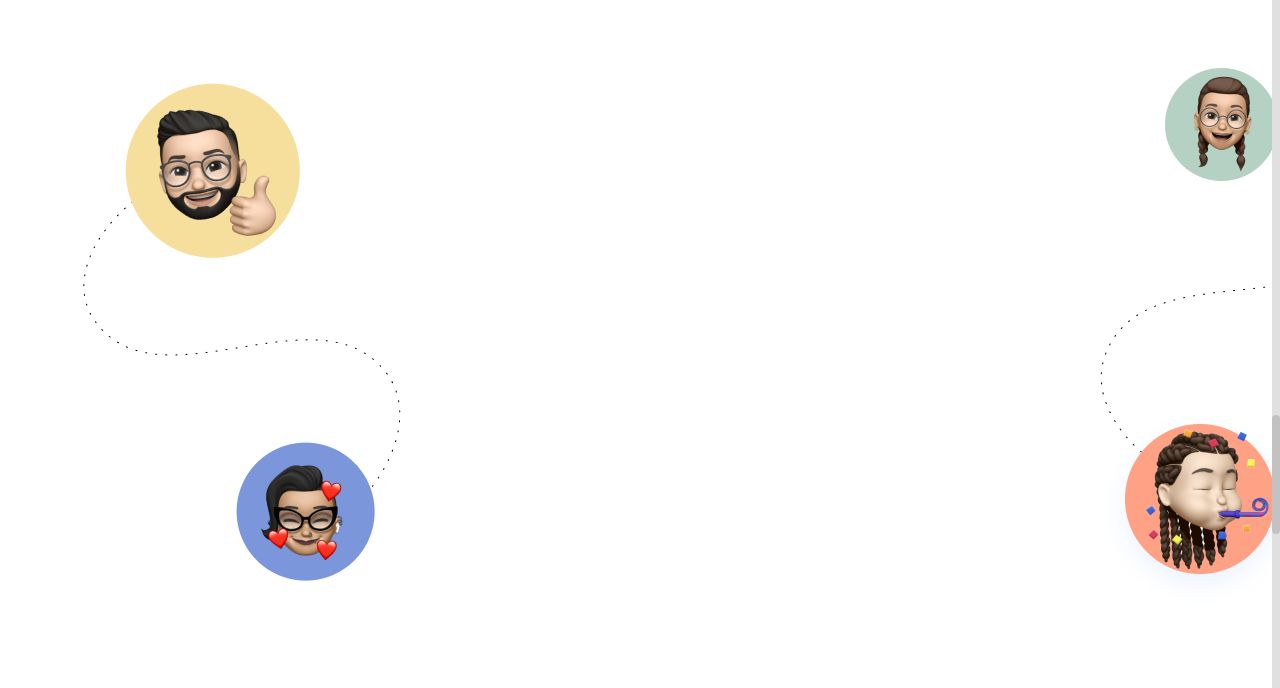
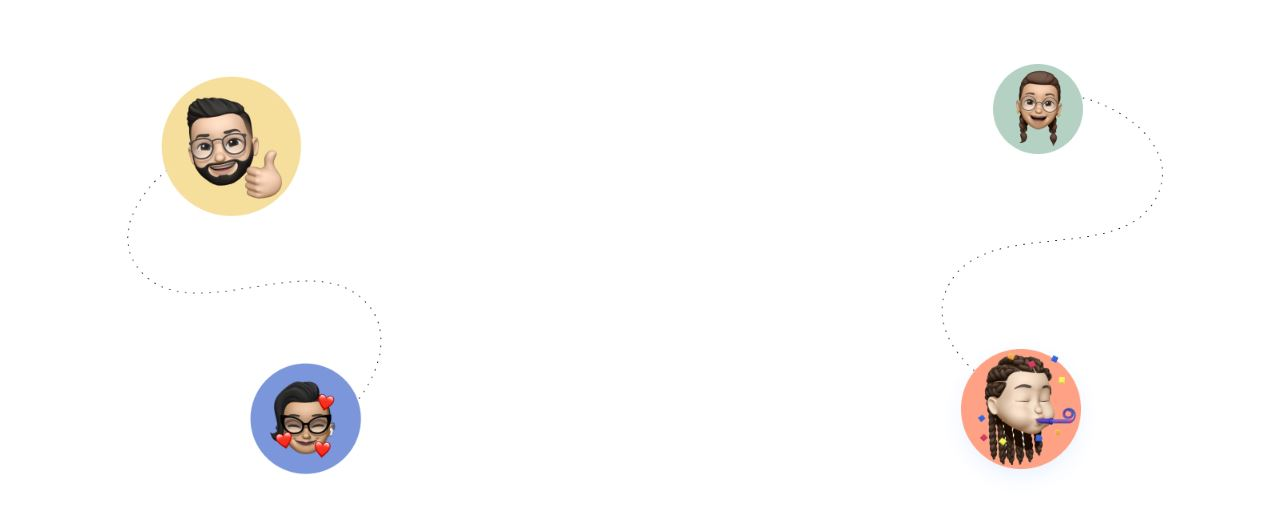
Added new bg for checkout section.

diff --git a/css/styles.css b/css/styles.css
@@ -237,7 +237,7 @@ ul.card {
     font-size:14px;
 }
 .checkout-app {
-    background: url(../images/about-bg.jpg) no-repeat scroll 8px center / 100%;
+    background: url(../images/about-bg.jpg) no-repeat scroll left center / 100%;
     text-align: center;
     height: 688px;
     display: flex;
@@ -245,6 +245,7 @@ ul.card {
 }
 .checkout-app h1{
     text-align: center;
+    font-size: 3.5rem;
 }
 .checkout-app p {
     max-width: 413px;
